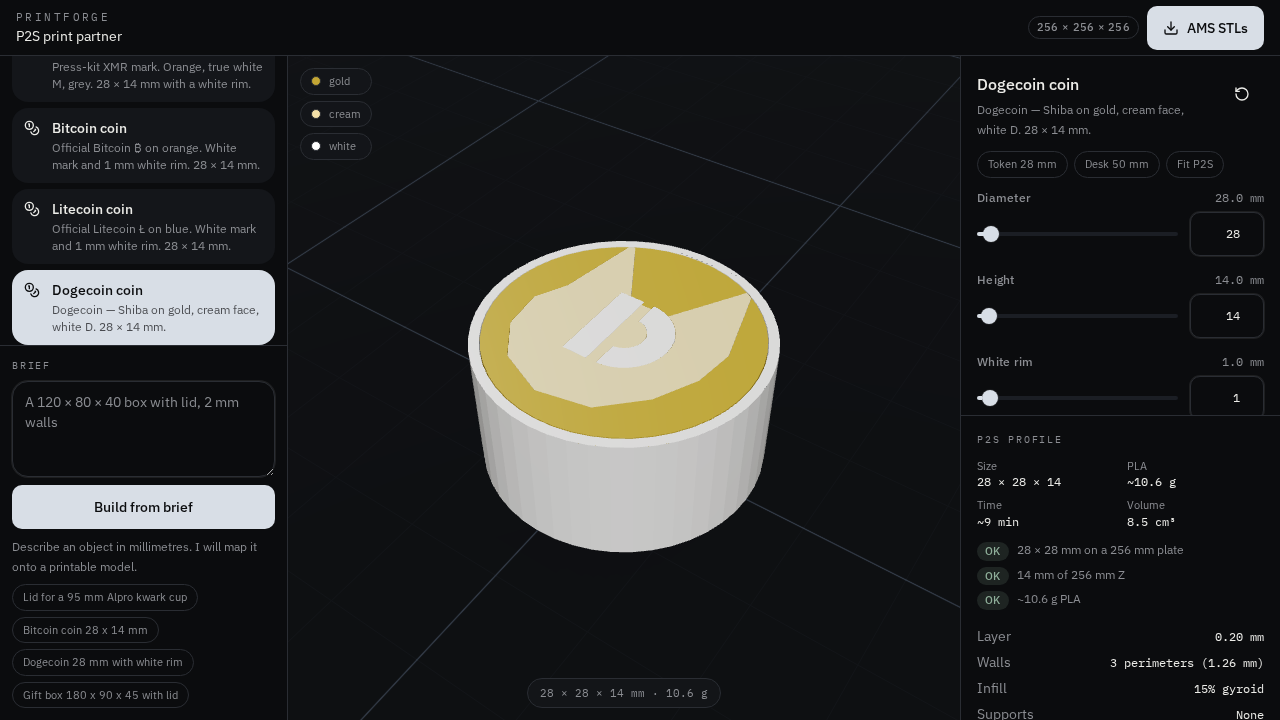
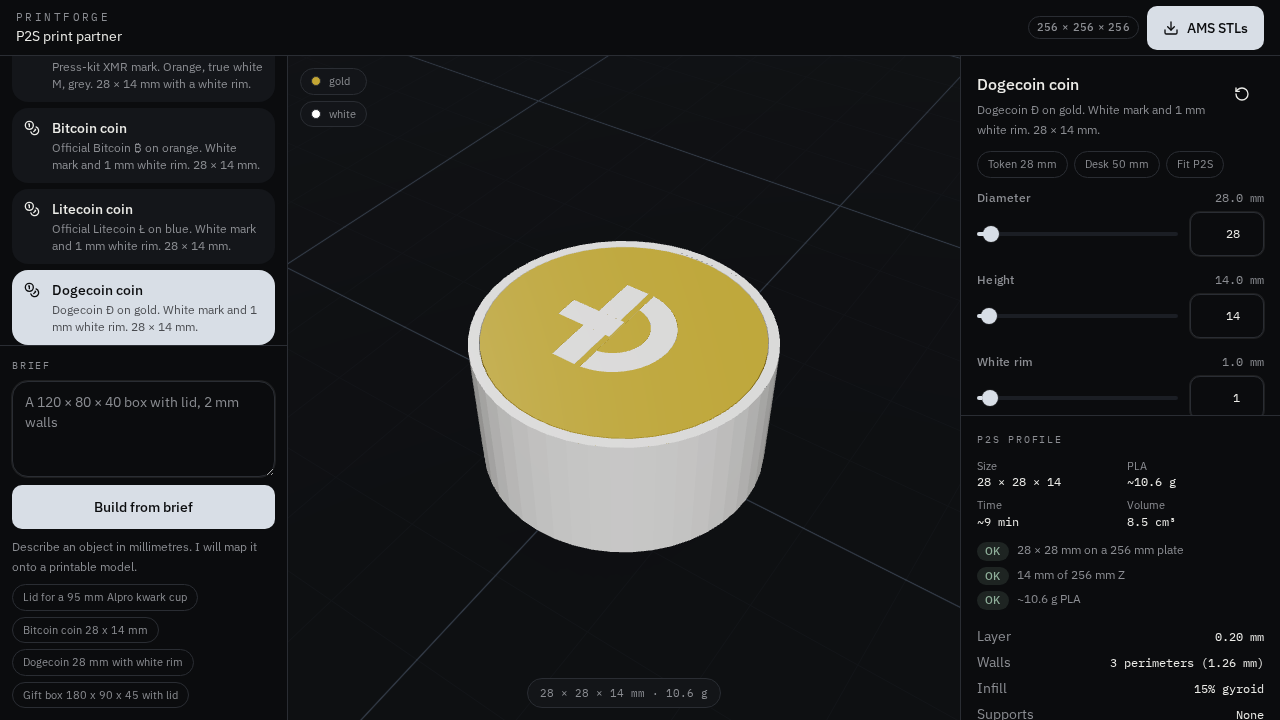
Rebuild Dogecoin as the gold Đ mark
Replace the Shiba overlay with the currency Đ: bold D, stem bar,
gold field, white rim. Matches the logo the user sent.

diff --git a/src/lib/print/coins.ts b/src/lib/print/coins.ts
@@ -112,39 +112,20 @@ export function litecoinL(d: number): Geom2 {
   return markFromPath(LTC_PATH, 32, d);
 }
 
-/** Bold geometric D matching the CoinMarketCap overlay. */
+/** Dogecoin Đ — bold D with a mid bar through the stem. */
 export function dogeD(d: number): Geom2 {
-  const t = d * 0.155;
-  const h = d * 0.56;
-  const stem = rect2(t, h, -d * 0.13, 0);
-  const r = d * 0.28;
-  const cx = 0;
-  const bowl = subtract(
-    circleAt(r, cx, 0, 36),
-    circleAt(Math.max(0.5, r - t), cx, 0, 36),
-    rect2(r * 1.65, r * 2.3, cx - r * 0.78, 0),
-  );
-  return union(stem, bowl);
-}
-
-/** Kabosu silhouette as one closed outline — no 2D unions (those break JSCAD). */
-export function shibaHead(d: number): Geom2 {
-  const p: [number, number][] = [
-    [-0.08, 0.16],
-    [-0.26, 0.46],
-    [-0.32, 0.10],
-    [-0.38, -0.02],
-    [-0.36, -0.18],
-    [-0.26, -0.32],
-    [-0.08, -0.40],
-    [0.12, -0.36],
-    [0.26, -0.22],
-    [0.34, -0.06],
-    [0.36, 0.10],
-    [0.26, 0.46],
-    [0.08, 0.16],
-  ].map(([x, y]) => [x * d, y * d]);
-  return poly2(cleanContour(p, true));
+  const t = d * 0.12;
+  const h = d * 0.58;
+  const stemX = -d * 0.12;
+  const stem = rect2(t, h, stemX, 0);
+  const cx = stemX + t / 2;
+  const r = h / 2;
+  const leftCut = rect2(r * 2.2, r * 2.2, cx - r, 0);
+  const outerBowl = subtract(circleAt(r, cx, 0, 48), leftCut);
+  const innerBowl = subtract(circleAt(Math.max(0.6, r - t), cx, 0, 48), leftCut);
+  const bowl = subtract(outerBowl, innerBowl);
+  const bar = rect2(t * 2.35, t, stemX - t * 0.5, 0);
+  return union(stem, bowl, bar);
 }
 
 export function digibyteD(d: number): Geom2 {
@@ -329,8 +310,7 @@ const DOGE: CoinSpec = {
   field: DOGE_GOLD,
   fieldName: "gold",
   symbol: dogeD,
-  overlay: { name: "cream", color: DOGE_CREAM, shape: shibaHead },
-  markScale: 0.64,
+  markScale: 0.78,
 };
 
 const DGB: CoinSpec = {
@@ -360,11 +340,7 @@ export function litecoinAdvice(v: Values) {
   return adviceFor("Litecoin blue / white", "blue #345D9D, white #FFFFFF", v);
 }
 export function dogecoinAdvice(v: Values) {
-  return adviceFor(
-    "Dogecoin gold / cream / white",
-    "gold #C3A634, cream #F4E0A8, white #FFFFFF",
-    v,
-  );
+  return adviceFor("Dogecoin gold / white", "gold #C3A634, white #FFFFFF", v);
 }
 export function digibyteAdvice(v: Values) {
   return adviceFor(

diff --git a/src/lib/print/catalog.ts b/src/lib/print/catalog.ts
@@ -513,7 +513,7 @@ export const DESIGNS: Design[] = [
     id: "dogecoin-coin",
     name: "Dogecoin coin",
     category: "Crypto",
-    blurb: "Dogecoin — Shiba on gold, cream face, white D. 28 × 14 mm.",
+    blurb: "Dogecoin Đ on gold. White mark and 1 mm white rim. 28 × 14 mm.",
     keywords: ["doge", "dogecoin", "coin", "logo", "crypto", "token", "gold"],
     params: coinParams(),
     build: dogecoinCoin,
